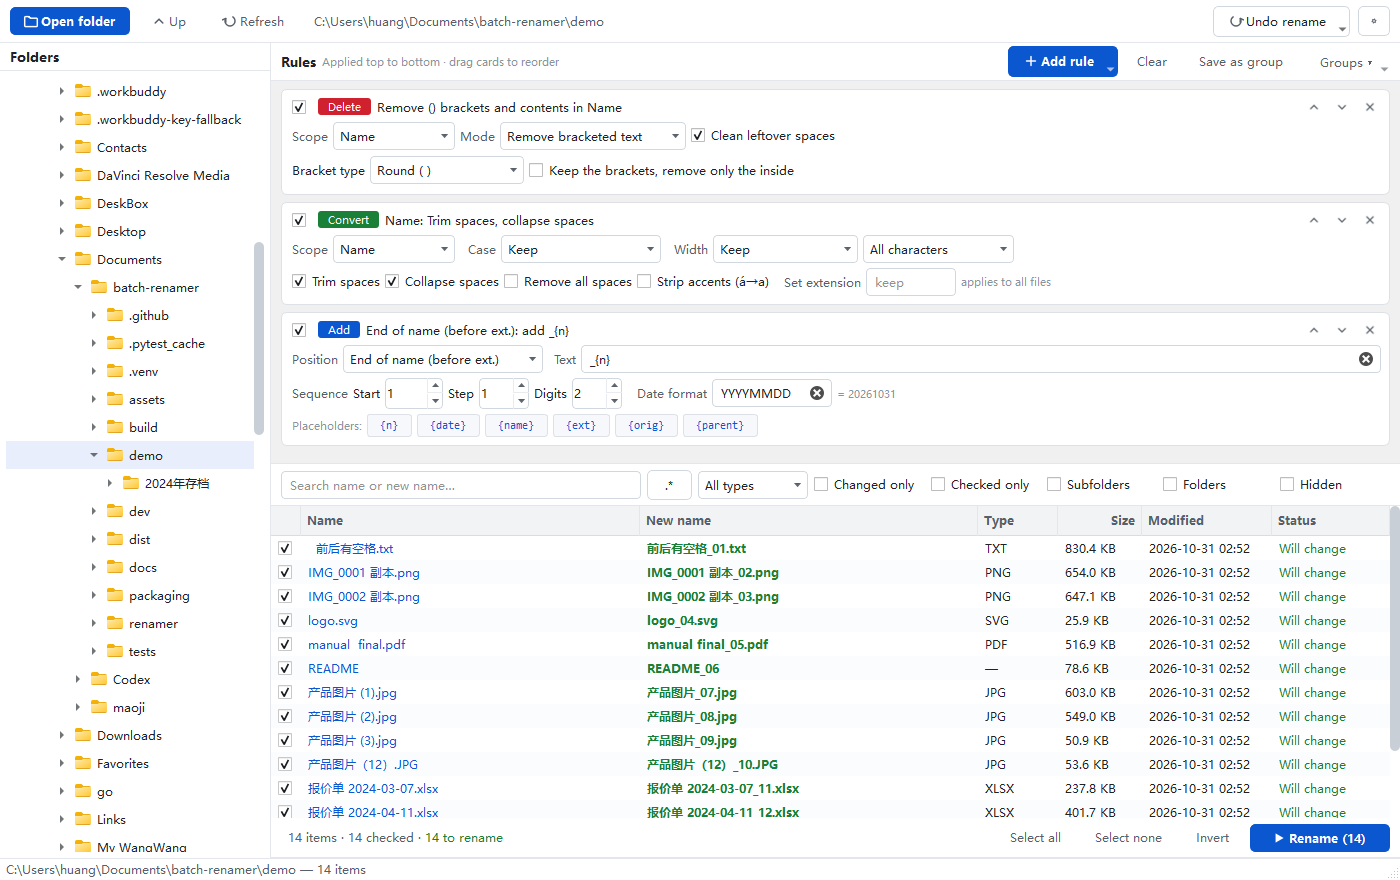
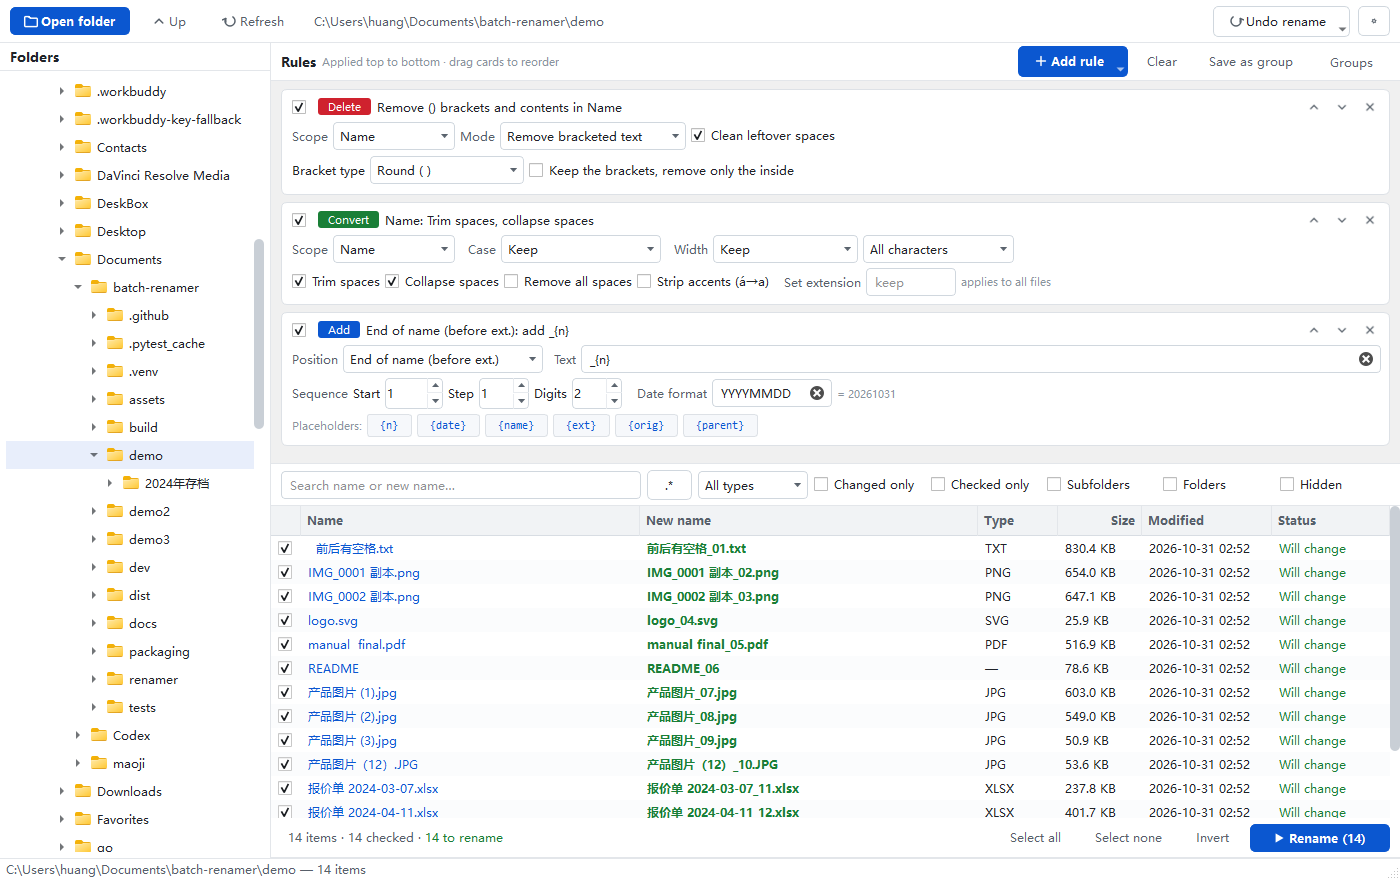
「规则组」按钮去掉右侧下拉箭头

diff --git a/renamer/ui/rule_widgets.py b/renamer/ui/rule_widgets.py
@@ -462,10 +462,11 @@ class RulePanel(QWidget):
         h.addWidget(btn_save)
 
         self.btn_load = QToolButton()
-        self.btn_load.setText(tr("规则组 ▾"))
+        self.btn_load.setText(tr("规则组"))
         self.btn_load.setObjectName("flatBtn")
-        self.btn_load.setPopupMode(QToolButton.InstantPopup)
-        self.btn_load.setMenu(self._build_preset_menu())
+        self.btn_load.setToolTip(tr("载入或删除保存过的规则组"))
+        # 不挂 setMenu：InstantPopup 会在右侧画一个小三角，这里用点击弹菜单代替
+        self.btn_load.clicked.connect(self._show_preset_menu)
         h.addWidget(self.btn_load)
 
         outer.addWidget(bar)
@@ -639,8 +640,12 @@ class RulePanel(QWidget):
         menu.addAction(tr("从文件导入…")).triggered.connect(self._import_preset)
         return menu
 
+    def _show_preset_menu(self) -> None:
+        menu = self._build_preset_menu()
+        menu.exec(self.btn_load.mapToGlobal(QPoint(0, self.btn_load.height() + 2)))
+
     def _refresh_preset_menu(self) -> None:
-        self.btn_load.setMenu(self._build_preset_menu())
+        pass          # 菜单每次点击时现建，这里不用做任何事
 
     @staticmethod
     def _safe_name(name: str) -> str:

diff --git a/renamer/i18n.py b/renamer/i18n.py
@@ -130,8 +130,9 @@ _EN: dict[str, str] = {
     "清空": "Clear",
     "存为预设": "Save preset",
     "存为规则组": "Save as group",
-    "规则组 ▾": "Groups ▾",
-    "规则组": "Rule groups",
+
+    "规则组": "Groups",
+    "载入或删除保存过的规则组": "Load or delete a saved group",
     "把规则存下来，下次一键载入": "Save this rule set to reload later",
     "把这组规则存下来，下次一键载入": "Save this rule set to reload later",
     "给这组规则起个名字，下次从「规则组」里一键载入：":
